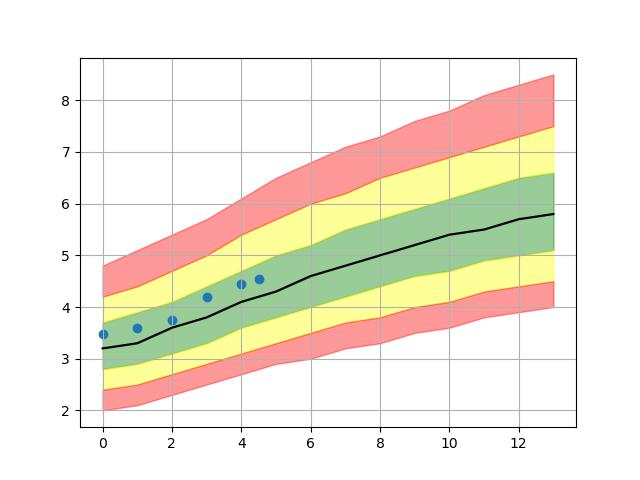
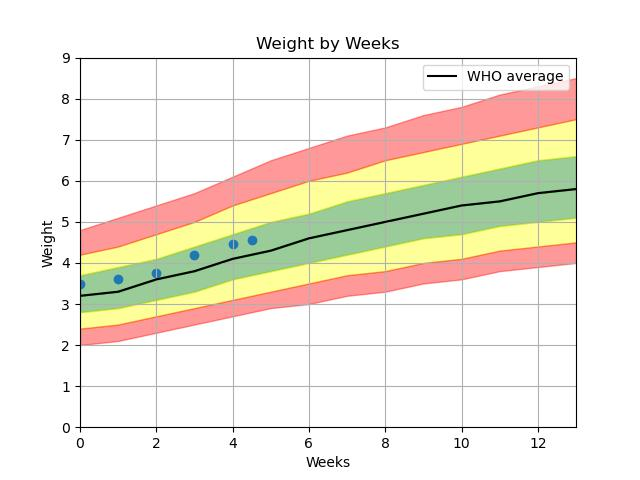
updated graph

diff --git a/templates/weight.html b/templates/weight.html
@@ -1,0 +1,18 @@
+<!DOCTYPE html>
+<html language="en">
+
+<head>
+    <meta charset="UTF-8">
+    <title>Baby Dashboard</title>
+
+</head>
+
+<body>
+    <h1>This is a graph of the weight</h1>
+
+    <img src="/static/weight.jpg">
+
+</body>
+
+
+</html>

diff --git a/app/plot_util.py b/app/plot_util.py
@@ -18,20 +18,24 @@ def plot_weight(data):
     xx = df.Week.values
 
     x_J = data["week"].values()
-    # [result[i][1] for i in range(len(result))]  # df.Week.values
     y_J = data["weight"].values()
-    # [result[i][0] for i in range(len(result))]  # [i for i in range(len(df.Jennifer.to_list()))]
 
     plt.figure()
     plt.fill_between(xx, df.SD0.values, df.SD1.values, color="green", alpha=0.4)
     plt.fill_between(xx, df.SD1.values, df.SD2.values, color="yellow", alpha=0.4)
     plt.fill_between(xx, df.SD2.values, df.SD3.values, color="red", alpha=0.4)
-    plt.plot(xx, df.SD0.values, color="black")
+    plt.plot(xx, df.SD0.values, color="black", label="WHO average")
     plt.fill_between(xx, df.SD1neg.values, df.SD0.values, color="green", alpha=0.4)
     plt.fill_between(xx, df.SD2neg.values, df.SD1neg.values, color="yellow", alpha=0.4)
     plt.fill_between(xx, df.SD3neg.values, df.SD2neg.values, color="red", alpha=0.4)
     plt.scatter(x_J, y_J)
+    plt.xlim(xmin=0, xmax=13)
+    plt.ylim(ymin=0, ymax=9)
     plt.grid()
+    plt.xlabel("Weeks")
+    plt.ylabel("Weight")
+    plt.title("Weight by Weeks")
+    plt.legend()
     plt.savefig(ARTIFACT_PATH / "weight.jpg")
 
     return

diff --git a/app/main.py b/app/main.py
@@ -3,7 +3,7 @@ import pathlib
 from typing import Optional
 
 import requests
-from fastapi import FastAPI
+from fastapi import FastAPI, Request
 from fastapi.staticfiles import StaticFiles
 from fastapi.templating import Jinja2Templates
 from starlette.responses import FileResponse
@@ -11,7 +11,7 @@ from starlette.responses import FileResponse
 from app.data_handler import get_weight
 from app.plot_util import plot_weight
 
-templates = Jinja2Templates(directory="static")
+templates = Jinja2Templates(directory="templates")
 app = FastAPI()
 app.mount("/static", StaticFiles(directory="static"), name="static")
 favicon_path = "favicon.ico"
@@ -27,9 +27,16 @@ async def favicon():
     return FileResponse(favicon_path)
 
 
-@app.get("/dashboard")
-def baby_dashboard():
+@app.get("/weight_test")
+def baby_weight():
     weight_json = get_weight()
     plot_weight(weight_json)
     return weight_json
+
+
+@app.get("/dashboard")
+def baby_dashboard(request: Request):
+    weight_json = get_weight()
+    plot_weight(weight_json)
+    return templates.TemplateResponse("weight.html", {"request": request})
 
